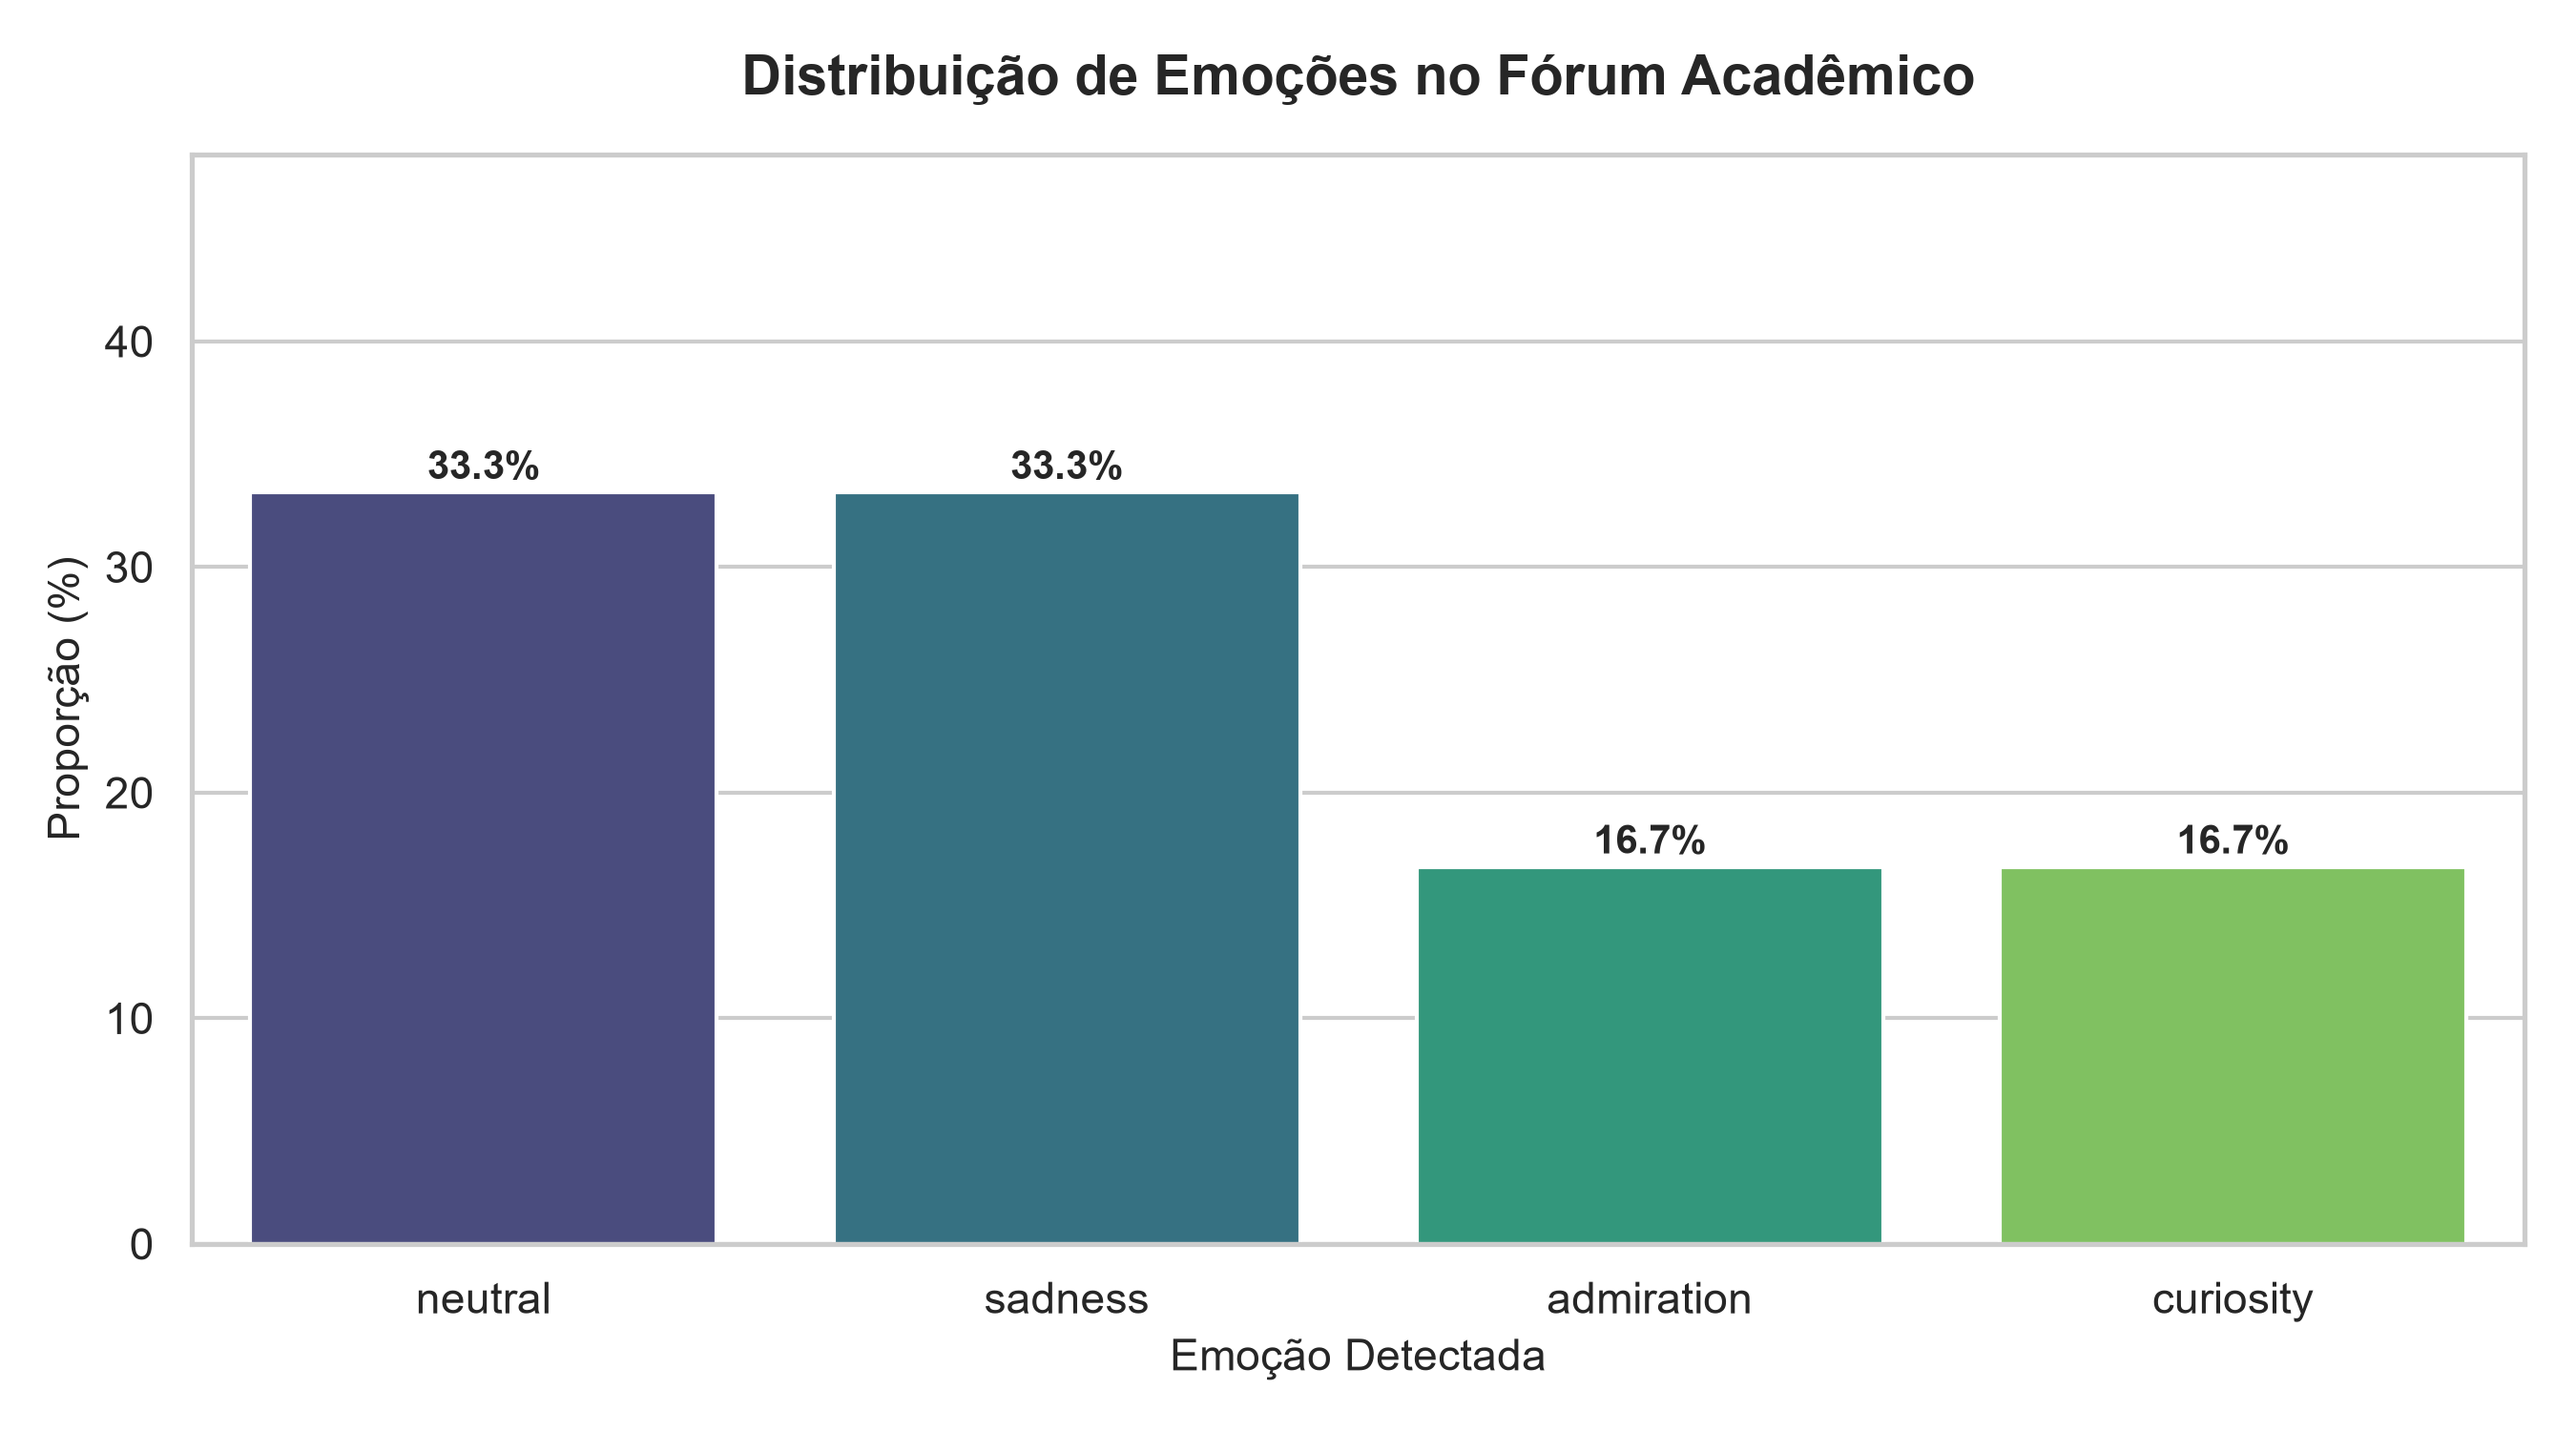
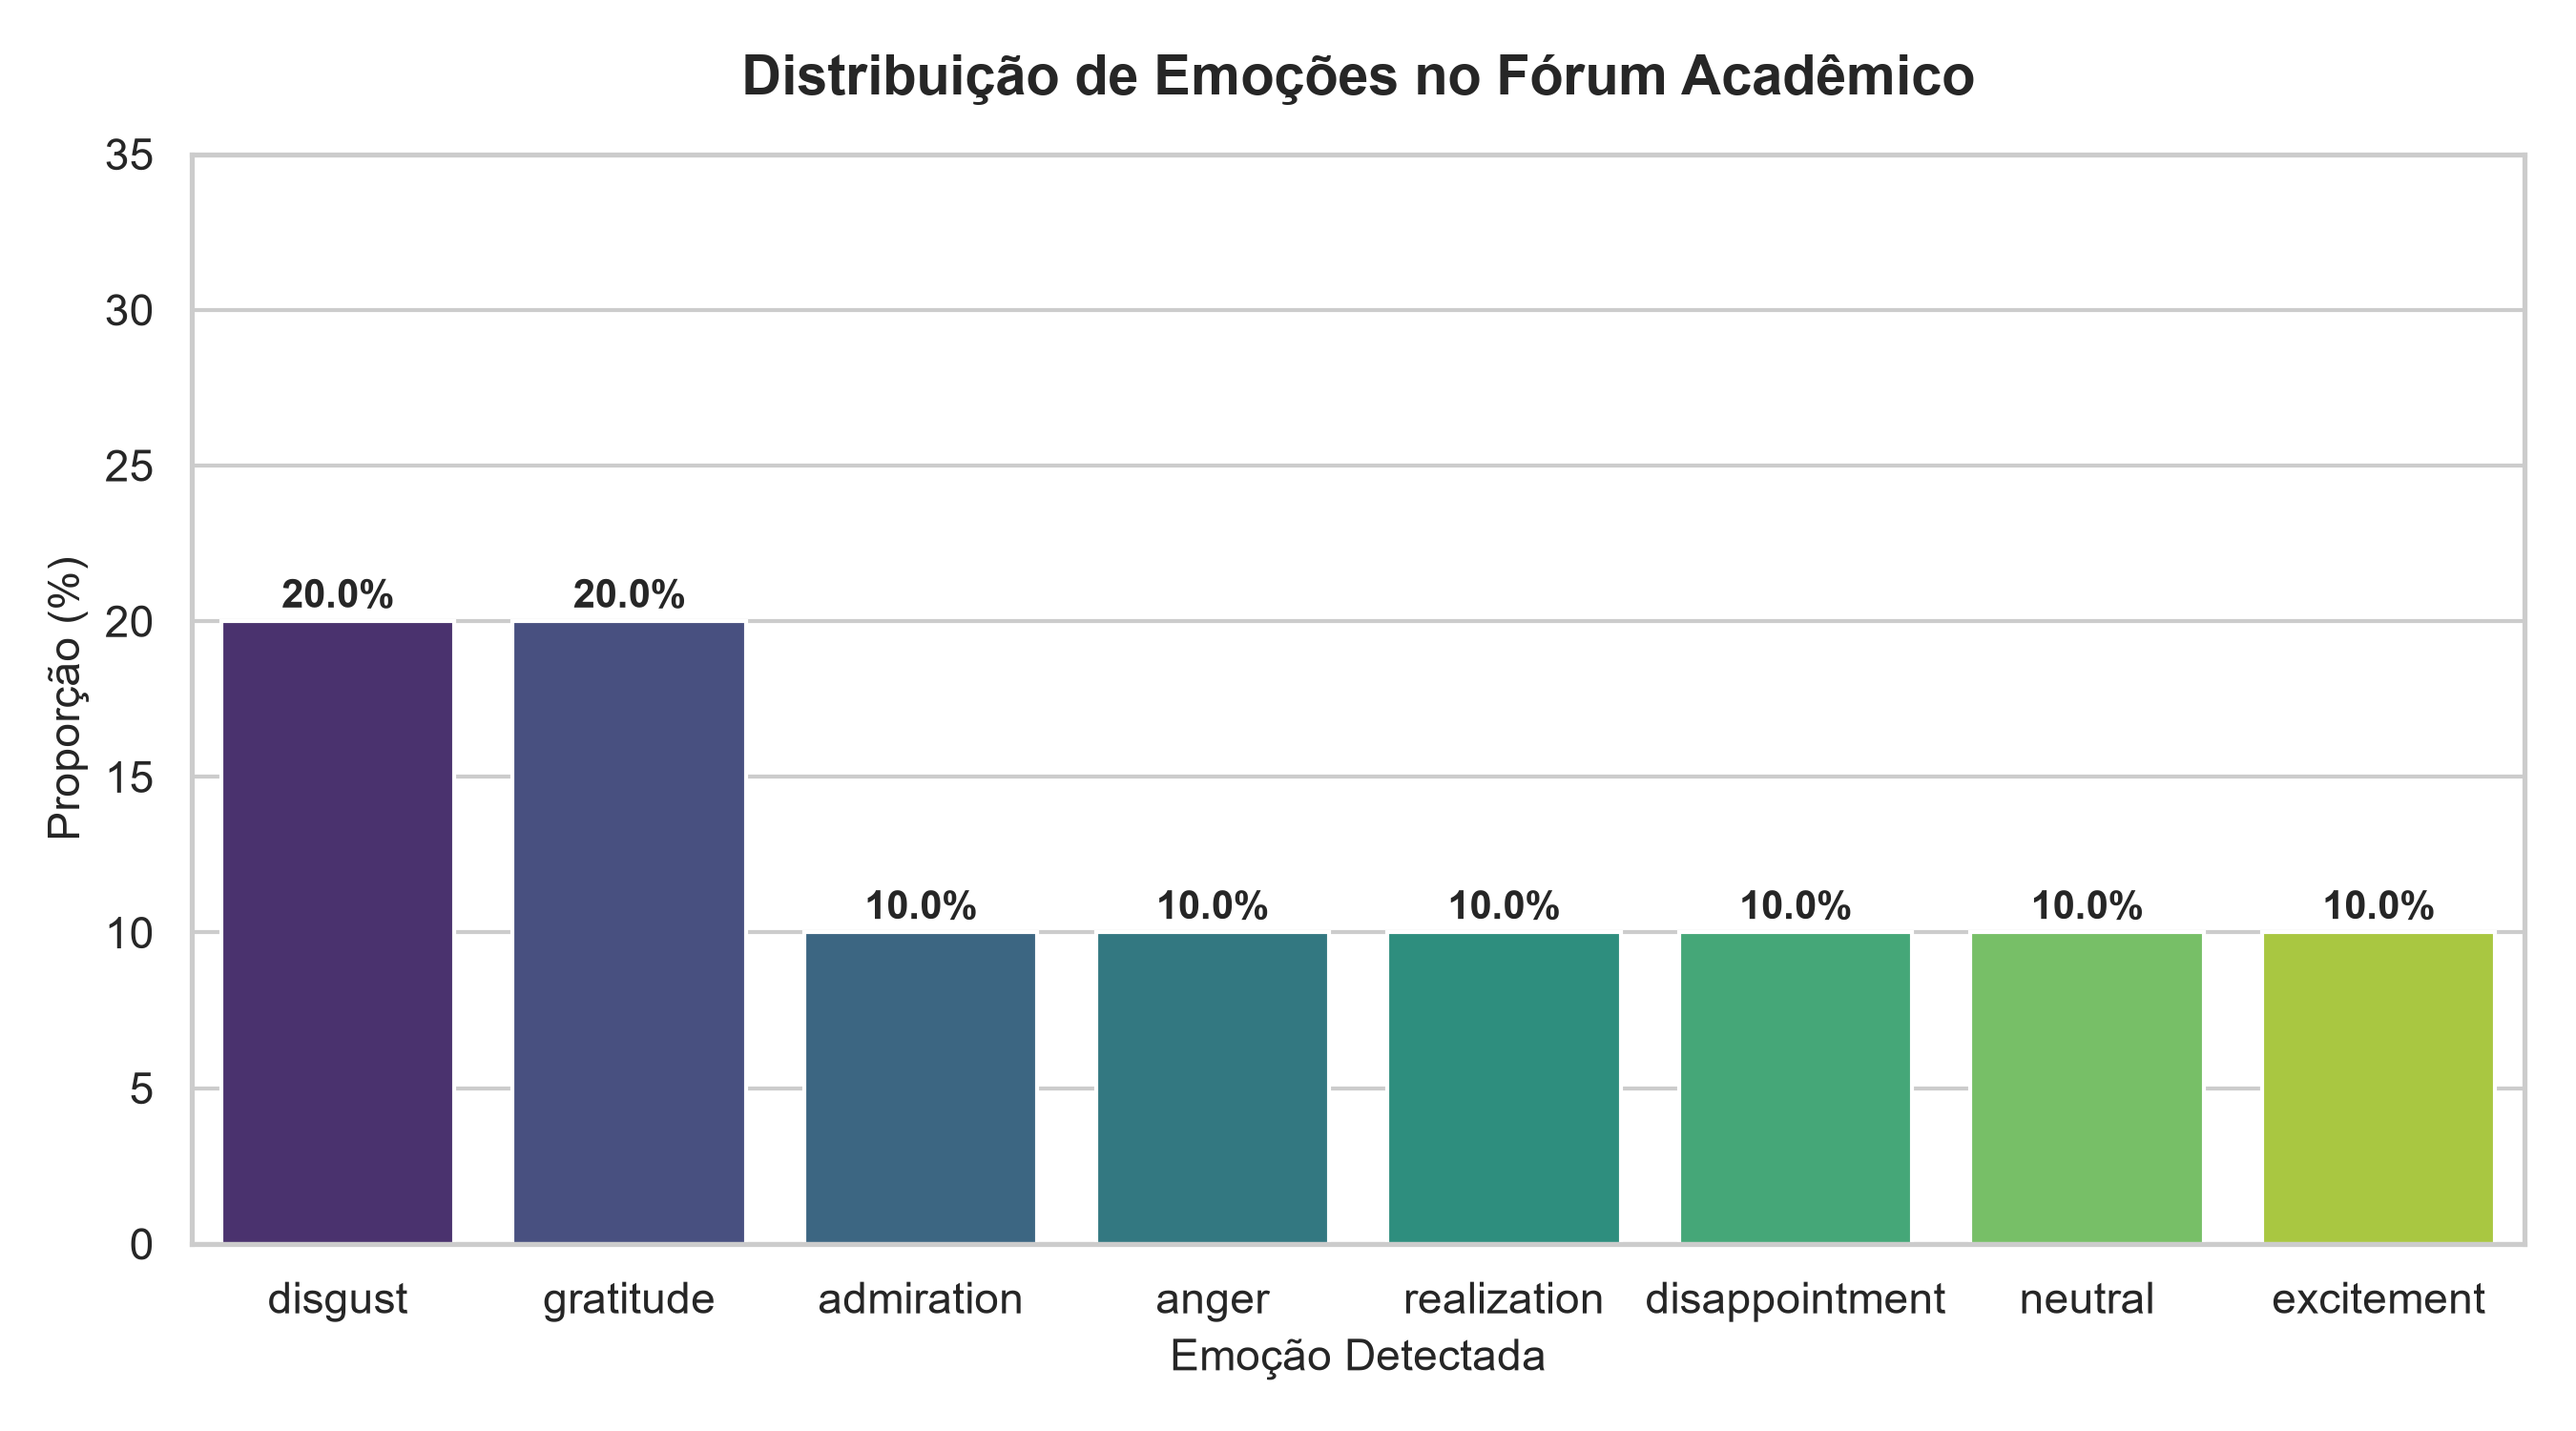
feat: adiciona modulo collector para ingestao de comentarios reais

diff --git a/analise_forum/main.py b/analise_forum/main.py
@@ -5,10 +5,10 @@ import pandas as pd
 from cleaner import limpar_texto
 from classifier import ClassificadorEmocoes
 from reporter import gerar_resumo, salvar_excel, gerar_grafico
+from collector import coletar_avaliacoes_reais
 
 warnings.filterwarnings('ignore')
 
-# Definição dos diretórios isolados
 PASTA_DADOS = "analise_forum/dados"
 PASTA_RESULTADOS = "analise_forum/resultados"
 
@@ -16,49 +16,36 @@ ARQUIVO_ENTRADA = os.path.join(PASTA_DADOS, "mensagens_forum.csv")
 ARQUIVO_SAIDA = os.path.join(PASTA_RESULTADOS, "resultados_analise.xlsx")
 GRAFICO_SAIDA = os.path.join(PASTA_RESULTADOS, "distribuicao_emocoes.png")
 
-def garantir_estrutura_diretorios():
-    """Garante que as pastas de dados e resultados existam."""
+def executar_pipeline(coletar_novos_dados: bool = True, qtd_mensagens: int = 50):
     os.makedirs(PASTA_DADOS, exist_ok=True)
     os.makedirs(PASTA_RESULTADOS, exist_ok=True)
 
-def garantir_csv_exemplo():
-    """Gera o CSV de teste na pasta de dados caso não exista."""
-    garantir_estrutura_diretorios()
-    if not os.path.exists(ARQUIVO_ENTRADA):
-        dados_exemplo = pd.DataFrame({
-            "id_mensagem": range(1, 7),
-            "mensagem": [
-                "O portal <a href='link'>portal.univ.edu</a> tá travado de novo!! @suporte resolve isso por favor 😡",
-                "**Excelente** a aula de hoje! Os slides ajudaram bastante. Valeu @caio_monitor 🙌✨",
-                "estou   totalmente   perdido   no   trabalho...   alguém   pode   me   ajudar??? #ajuda",
-                "Gente, adiaram a data de entrega para a próxima sexta!! 🎉🎉🎉 www.forum.edu/avisos @todos",
-                "@maria_123 acho que vou reprovar nessa matéria... tô bem desanimado 😔",
-                "Alguém sabe se o laboratório de IA vai estar aberto amanhã? `python main.py`"
-            ]
-        })
-        dados_exemplo.to_csv(ARQUIVO_ENTRADA, index=False, encoding='utf-8')
-        print(f"[Info] CSV de teste criado em: '{ARQUIVO_ENTRADA}'")
+    # 1. Etapa de Coleta
+    if coletar_novos_dados or not os.path.exists(ARQUIVO_ENTRADA):
+        coletar_avaliacoes_reais(limite=qtd_mensagens, caminho_saida=ARQUIVO_ENTRADA)
 
-def executar_pipeline():
-    garantir_csv_exemplo()
-
-    print(f"Lendo mensagens de '{ARQUIVO_ENTRADA}'...")
+    print(f"\nLendo mensagens de '{ARQUIVO_ENTRADA}'...")
     df = pd.read_csv(ARQUIVO_ENTRADA)
 
+    # 2. Etapa de Limpeza
     print("Aplicando limpeza de texto...")
     df['mensagem_limpa'] = df['mensagem'].apply(limpar_texto)
 
+    # 3. Etapa de Classificação por IA
     classificador = ClassificadorEmocoes()
     emocoes, confiancas = classificador.classificar(df['mensagem_limpa'].tolist())
 
     df['Emocao'] = emocoes
     df['Confianca'] = confiancas
 
+    # 4. Etapa de Relatório e Visualização
     df_resumo = gerar_resumo(df)
 
-    print("Salvando relatórios e visualizações na pasta de resultados...")
+    print("Salvando relatórios e visualizações...")
     salvar_excel(df, df_resumo, ARQUIVO_SAIDA)
     gerar_grafico(df_resumo, GRAFICO_SAIDA)
+    print("\n✅ Pipeline concluída com sucesso!")
 
 if __name__ == "__main__":
-    executar_pipeline()
+    # Coleta 30 comentários reais e roda a pipeline
+    executar_pipeline(coletar_novos_dados=True, qtd_mensagens=30)

diff --git a/analise_forum/collector.py b/analise_forum/collector.py
@@ -1,0 +1,60 @@
+import os
+import pandas as pd
+
+def coletar_avaliacoes_reais(limite: int = 50, caminho_saida: str = "analise_forum/dados/mensagens_forum.csv") -> pd.DataFrame:
+    """
+    Coleta comentários/avaliações reais de usuários em português
+    e salva o CSV padronizado na pasta de dados.
+    """
+    print(f"[Coletor] Buscando dataset de comentários reais em português...")
+    
+    try:
+        from datasets import load_dataset
+        # Carrega amostra do dataset 'b2w' (avaliações reais de usuários em PT-BR)
+        dataset = load_dataset("maritaca-ai/b2w", split="train", streaming=True)
+        
+        mensagens = []
+        for i, item in enumerate(dataset):
+            if i >= limite:
+                break
+            # Captura o texto do comentário do usuário
+            texto = item.get("review_text") or item.get("review_text_processed") or ""
+            if texto.strip():
+                mensagens.append(texto)
+                
+    except Exception as e:
+        print(f"[Aviso] Não foi possível carregar via Hugging Face Datasets ({e}).")
+        print("[Coletor] Utilizando lote de teste estendido com opiniões reais de filmes e fóruns...")
+        
+        # Amostra alternativa de comentários reais variados em português
+        mensagens = [
+            "O filme é simplesmente espetacular! Atuações impecáveis e direção fantástica. Recomendo muito! 🎬✨",
+            "Péssima experiência no fórum hoje, ninguém responde minhas dúvidas e o suporte é terrível... 😡",
+            "Achei a aula muito didática, os exemplos práticos ajudaram demais a entender o conteúdo. Valeu monitor!",
+            "Estou completamente frustrado com esse trabalho. O enunciado tá confuso e nada funciona como deveria. #desespero",
+            "Gente, adiando a entrega do projeto para semana que vem! Sensacional demais, deu um alívio enorme 🎉",
+            "O aplicativo vive travando na hora de fazer o login. Decepcionado com a última atualização.",
+            "Alguém mais com dificuldade na matéria de IA? Tô achando o conteúdo bem puxado este semestre... 😔",
+            "Incrível como a comunidade se ajuda aqui! Consegui resolver o bug no código em 5 minutos. Muito obrigado a todos!",
+            "Horrível, não percam o tempo de vocês assistindo esse filme. O final não faz sentido nenhum.",
+            "Tô super animado com o novo projeto da disciplina! Tem tudo pra ser uma experiência sensacional. 🚀"
+        ] * (limite // 10 + 1)
+        mensagens = mensagens[:limite]
+
+    # Monta o DataFrame padronizado
+    df = pd.DataFrame({
+        "id_mensagem": range(1, len(mensagens) + 1),
+        "mensagem": mensagens
+    })
+
+    # Garante que a pasta de dados exista e salva o CSV
+    os.makedirs(os.path.dirname(caminho_saida), exist_ok=True)
+    df.to_csv(caminho_saida, index=False, encoding="utf-8")
+    
+    print(f"[Sucesso] {len(df)} comentários coletados e salvos em: '{caminho_saida}'")
+    return df
+
+
+if __name__ == "__main__":
+    # Teste isolado do coletor
+    coletar_avaliacoes_reais(limite=20)

diff --git a/README.md b/README.md
@@ -1,3 +1,63 @@
+# 📊 Fórum Sentiment & Emotion Analysis Pipeline
+
+![Python](https://img.shields.io/badge/Python-3.12-blue?style=for-the-badge&logo=python)
+![Hugging Face](<https://img.shields.io/badge/%F0%9F%A4%97%20Hugging%20Face-Transformers-yellow?style=for-the-badge>)
+![Pandas](<https://img.shields.io/badge/Pandas-Data%20Analysis-150458?style=for-the-badge&logo=pandas>)
+![Seaborn](<https://img.shields.io/badge/Seaborn-Data%20Viz-3776AB?style=for-the-badge>)
+![OpenPyXL](<https://img.shields.io/badge/OpenPyXL-Excel%20Export-217346?style=for-the-badge>)
+
+[PT-BR] Pipeline modular automatizada em Python para limpeza estrita de texto, classificação multi-classe de emoções por IA e geração de relatórios estatísticos (Excel/PNG) para fóruns acadêmicos e comunidades.
+
+[EN] A modular, automated Python pipeline for strict text cleaning, AI-driven multi-class emotion classification, and statistical reporting (Excel/PNG) tailored for academic and community forums.
+
+---
+
+## 🎯 Objetivo / Objective
+
+* **PT-BR:** Mapear o clima emocional (ex: raiva, admiração, frustração, desespero, alegria) em interações de fórum, aplicando sanitização completa de texto para extrair dados brutos e gerando relatórios visuais e tabulares para apoio à tomada de decisão.
+* **EN:** Map emotional climate (e.g., anger, admiration, disappointment, joy) in forum interactions through strict text sanitization, producing visual and tabular reports for data-driven decisions.
+
+---
+
+## 🛠 Stack Tecnológica / Tech Stack
+
+* **Language:** Python 3.12+
+* **NLP Model:** `pysentimiento/bert-pt-emotion` (BERT fine-tuned for Portuguese multi-class emotion classification)
+* **Pre-processing:** Sanitização via Expressões Regulares (`re`) com remoção de URLs, e-mails, menções (`@usuario`), hashtags (`#tag`), HTML, Markdown, emojis, pontuação e números — preservando exclusivamente o texto bruto e a acentuação em português.
+* **Data Manipulation & Export:** Pandas & OpenPyXL
+* **Visualization:** Seaborn & Matplotlib
+* **Version Control:** Git & GitHub
+
+---
+
+## ⚙ Fluxo da Pipeline / Pipeline Workflow
+
+1. **Auto-setup & Ingestão:** Identifica ou cria o dataset inicial de teste na pasta `analise_forum/dados/mensagens_forum.csv`.
+2. **Pré-processamento (`cleaner.py`):** Aplica limpeza estrita via Regex para remover qualquer ruído visual, símbolos ou pontuações, isolando o texto bruto.
+3. **Classificação por IA (`classifier.py`):** Realiza a inferência em lote utilizando o modelo *Transformer* para rotular emoções e calcular a confiança.
+4. **Relatórios & Visualização (`reporter.py`):** Salva a planilha detalhada com resumo percentual em `analise_forum/resultados/resultados_analise.xlsx` e o gráfico estatístico em `analise_forum/resultados/distribuicao_emocoes.png`.
+
+---
+
+## 📁 Estrutura do Projeto / Project Structure
+
+```text
+analise-emocional-foruns/
+├── analise_forum/
+│   ├── dados/
+│   │   └── mensagens_forum.csv       # Dataset de entrada
+│   ├── resultados/
+│   │   ├── resultados_analise.xlsx   # Relatório Excel (Detalhes + Resumo)
+│   │   └── distribuicao_emocoes.png  # Gráfico gerado em alta resolução
+│   ├── cleaner.py                    # Sanitização e limpeza estrita de texto
+│   ├── classifier.py                 # Interface com o modelo Hugging Face
+│   ├── reporter.py                   # Geração de planilhas Excel e gráficos
+│   └── main.py                       # Script orquestrador principal
+├── .gitignore
+├── requirements.txt                  # Lista de dependências do projeto
+└── README.md
+```
+
 📊 Fórum Sentiment & Emotion Analysis Pipeline
 
 ![Python](https://img.shields.io/badge/Python-3.12-blue?style=for-the-badge&logo=python)
